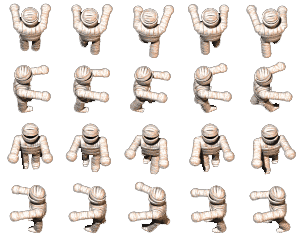
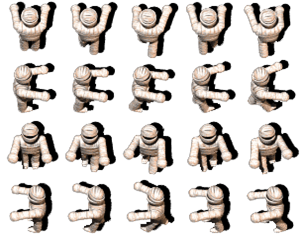
Thay đổi ảnh của redmummy, sửa logic: khi 2 mummy chạm nhau thì con thông minh hơn thắng

diff --git a/Assets/module/explorer.py b/Assets/module/explorer.py
@@ -25,8 +25,8 @@ class MummyMazePlayerManager:
         # 1. Load Resources
 
         # Giữ nguyên logic load riêng biệt để đảm bảo shadow không bị lỗi
-        self.player_frames, self.shadow_player_frames = self.load_player_frames()
-        self.finding_frames, self.shadow_finding_frames = self.load_player_finding_frames()
+        self.player_frames= self.load_player_frames()
+        self.finding_frames = self.load_player_finding_frames()
         
         # 2. Movement State
         self.movement_list: List[str] = []
@@ -228,17 +228,8 @@ class MummyMazePlayerManager:
         """Helper to update both sprite and shadow frames based on direction."""
         direction_key = str(self.facing_direction)
         self.current_frame = getattr(self.player_frames, direction_key)[frame_index]
-        self.current_shadow_frame = getattr(self.shadow_player_frames, direction_key)[frame_index]
 
-    def get_black_shadow_surface(self, frame: pygame.Surface) -> pygame.Surface:
-        """Convert an original shadow surface to a black silhouette."""
-        image = frame.copy()
-        image.set_colorkey((0, 0, 0))
-        mask = pygame.mask.from_surface(image)
-        # setcolor=(0, 0, 0) -> Absolute black
-        return mask.to_surface(setcolor=(0, 0, 0), unsetcolor=None)
-
-    def _load_and_scale_image(self, filename: str = "", is_shadow: bool = False) -> pygame.Surface:
+    def _load_and_scale_image(self, filename: str = "") -> pygame.Surface:
         """Helper just for loading and scaling, NOT applying shadow logic."""
         path = os.path.join("assets", "images", filename)
         surface = pygame.image.load(path).convert_alpha()
@@ -246,11 +237,8 @@ class MummyMazePlayerManager:
         scale_factor = self.TILE_SIZE / 60
         new_size = (int(surface.get_width() * scale_factor), 
                     int(surface.get_height() * scale_factor))
-        if is_shadow:
-            return pygame.transform.scale(surface, new_size)
-        else: 
-            surface.set_colorkey((0, 0, 0))
-            return pygame.transform.smoothscale(surface, new_size)
+        
+        return pygame.transform.smoothscale(surface, new_size)
 
     def _create_frameset(self, frames_list: List[pygame.Surface]) -> Any:
         """Helper to map a list of frames to UP/RIGHT/DOWN/LEFT logic."""
@@ -266,21 +254,15 @@ class MummyMazePlayerManager:
         """Load player sprite sheet and split into directional frames."""
         
         # 1. Load NORMAL sprite
-        player_surface = self._load_and_scale_image("explorer.png", is_shadow=False).convert_alpha()
-        player_surface.set_colorkey((0, 0, 0))
-
-        # 2. Load SHADOW sprite (Load -> Scale -> then Convert to Black)
-        shadow_surface = self._load_and_scale_image("_explorer.gif", is_shadow=True)
-        shadow_surface = self.get_black_shadow_surface(shadow_surface)
+        player_surface = self._load_and_scale_image("explorer.png")
 
         # 3. Extract Frames
         w_frame = player_surface.get_width() // 5
         h_frame = player_surface.get_height() // 4
         
         player_frames_list = extract_sprite_frames(player_surface, w_frame, h_frame)
-        shadow_frames_list = extract_sprite_frames(shadow_surface, w_frame, h_frame)
 
-        return self._create_frameset(player_frames_list), self._create_frameset(shadow_frames_list)
+        return self._create_frameset(player_frames_list)
 
     def load_player_finding_frames(self) -> Tuple[List[pygame.Surface], List[pygame.Surface]]:
         """Load player finding sprite sheet (horizontal strip)."""
@@ -294,14 +276,12 @@ class MummyMazePlayerManager:
             return frames
 
         # 1. Load NORMAL finding
-        finding_surface = self._load_and_scale_image("explorer_finding.gif", is_shadow=False)
+        finding_surface = self._load_and_scale_image("explorer_finding.png")
         # finding_surface.set_colorkey((0, 0, 0))
 
-        # 2. Load SHADOW finding
-        shadow_finding_surface = self._load_and_scale_image("_explorer_finding.gif", is_shadow=True)
-        shadow_finding_surface = self.get_black_shadow_surface(shadow_finding_surface)
 
-        return extract_strip_frames(finding_surface), extract_strip_frames(shadow_finding_surface)
+
+        return extract_strip_frames(finding_surface)
 
     def player_can_move(self, position: List[int], facing_direction: str, gate_opened: bool = False) -> bool:
         """Check if player can move in facing_direction considering wall tiles."""
@@ -362,11 +342,10 @@ class MummyMazePlayerManager:
         self.expwalk_sound.play()
 
     def draw_player(self, screen: pygame.Surface, offset_x: int, offset_y: int) -> None:
-        """Render player and shadow with offset."""
+        
         base_x = MARGIN_LEFT + self.TILE_SIZE * (self.grid_position[0] - 1) + offset_x
         base_y = MARGIN_TOP + self.TILE_SIZE * (self.grid_position[1] - 1) + offset_y
         
-        screen.blit(self.current_shadow_frame, (base_x, base_y))
         screen.blit(self.current_frame, (base_x, base_y))
 
     def update_player(self, screen: pygame.Surface, gate_opened: bool = False) -> bool:
@@ -436,9 +415,7 @@ class MummyMazePlayerManager:
             is_idle_timeout = (time.time() - self.start_standing >= self.idle_time_threshold)
 
             if self.is_standing and self.facing_direction == DOWN and is_idle_timeout:
-                self.current_frame = self.finding_frames[self.finding_frame_index]
-                self.current_shadow_frame = self.shadow_finding_frames[self.finding_frame_index]
-                
+                self.current_frame = self.finding_frames[self.finding_frame_index]                
                 self.finding_frame_index += 1
 
                 # If finding loop finishes

diff --git a/Assets/module/zombies.py b/Assets/module/zombies.py
@@ -25,8 +25,8 @@ class MummyMazeZombieManager:
         self.map_data = data["map_data"] if data and "map_data" in data else []
 
         # 1. Load Resources
-        self.zombie_frames, self.shadow_zombie_frames = self.load_zombie_frames()
-        self.effect_frames, self.shadow_effect_frames = self.load_zombie_effect_frames()
+        self.zombie_frames= self.load_zombie_frames()
+        self.effect_frames = self.load_zombie_effect_frames()
         self.mumwalk_sound = pygame.mixer.Sound(os.path.join("Assets", "sounds", "mumwalk60b.wav"))
 
         # 2. Movement State
@@ -60,16 +60,8 @@ class MummyMazeZombieManager:
         """Helper to update both sprite and shadow frames based on direction."""
         direction_key = str(self.facing_direction)
         self.current_frame = getattr(self.zombie_frames, direction_key)[frame_index]
-        self.current_shadow_frame = getattr(self.shadow_zombie_frames, direction_key)[frame_index]
 
-    def get_black_shadow_surface(self, frame: pygame.Surface) -> pygame.Surface:
-        """Convert an original shadow surface to a pure black silhouette."""
-        image = frame.copy()
-        image.set_colorkey((0, 0, 0))
-        mask = pygame.mask.from_surface(image)
-        return mask.to_surface(setcolor=(0, 0, 0), unsetcolor=None)
-
-    def _load_and_scale_image(self, filename: str = "", is_shadow: bool = False) -> pygame.Surface:
+    def _load_and_scale_image(self, filename: str = "") -> pygame.Surface:
         """Helper just for loading and scaling, NOT applying shadow logic."""
         path = os.path.join("assets", "images", filename)
         surface = pygame.image.load(path).convert_alpha()
@@ -77,30 +69,21 @@ class MummyMazeZombieManager:
         scale_factor = self.TILE_SIZE / 60
         new_size = (int(surface.get_width() * scale_factor), 
                     int(surface.get_height() * scale_factor))
-        if is_shadow:
-            return pygame.transform.scale(surface, new_size)
-        else: 
-            surface.set_colorkey((0, 0, 0))
-            return pygame.transform.smoothscale(surface, new_size)
+        
+        return pygame.transform.smoothscale(surface, new_size)
         
     def load_zombie_frames(self) -> Tuple[Any, Any]:
         """Load zombie sprite sheet and split into directional frames."""
 
         _path = "whitemummy.png" if self.zombie_type in [0,2] else "redmummy.png"
         # Load Resources
-        zombie_surface = self._load_and_scale_image(_path, is_shadow=False)
-        # zombie_surface.set_colorkey((0, 0, 0))
-        
-        # Load Shadow (process image then convert to black silhouette)
-        shadow_surface = self._load_and_scale_image("_mummy.gif", is_shadow=True)
-        shadow_surface = self.get_black_shadow_surface(shadow_surface)
+        zombie_surface = self._load_and_scale_image(_path)
 
         # Extract Frames
         w_frame = zombie_surface.get_width() // 5
         h_frame = zombie_surface.get_height() // 4
         
         z_frames_list = extract_sprite_frames(zombie_surface, w_frame, h_frame)
-        s_frames_list = extract_sprite_frames(shadow_surface, w_frame, h_frame)
 
         # Helper to assign to FrameSet
         def create_frameset(source_list):
@@ -111,7 +94,7 @@ class MummyMazeZombieManager:
             fs.LEFT = double_list(source_list[16:20] + [source_list[15]])
             return fs
 
-        return create_frameset(z_frames_list), create_frameset(s_frames_list)
+        return create_frameset(z_frames_list)
 
     def load_zombie_effect_frames(self) -> Tuple[List[pygame.Surface], List[pygame.Surface]]:
         """Load special effect/idle animation frames."""
@@ -125,17 +108,13 @@ class MummyMazeZombieManager:
 
         # Load Resources
 
-        image_path = "whitelisten.gif" if self.zombie_type in [0,2] else "reddance.gif"
-        effect_surface = self._load_and_scale_image(image_path, is_shadow=False)
-        effect_surface.set_colorkey((0, 0, 0))
-        
-        shadow_effect_surface = self._load_and_scale_image("_" + image_path, is_shadow=True)
-        shadow_effect_surface = self.get_black_shadow_surface(shadow_effect_surface)
+        image_path = "whitelisten" if self.zombie_type in [0,2] else "reddance"
+        effect_surface = self._load_and_scale_image(image_path+".png")
+
         # Extract
         frame_h = effect_surface.get_height()
         effect_frames = extract_effect_frames(effect_surface, frame_h)
-        shadow_effect_frames = extract_effect_frames(shadow_effect_surface, frame_h)
-        return effect_frames, shadow_effect_frames
+        return effect_frames
 
     def zombie_can_move(self, position: List[int], facing_direction: str, gate_opened: bool = False) -> bool:
         """Check if zombie can move in facing_direction considering wall tiles."""
@@ -199,7 +178,6 @@ class MummyMazeZombieManager:
         base_x = MARGIN_LEFT + self.TILE_SIZE * (self.grid_position[0] - 1) + offset_x
         base_y = MARGIN_TOP + self.TILE_SIZE * (self.grid_position[1] - 1) + offset_y
         
-        screen.blit(self.current_shadow_frame, (base_x, base_y))
         screen.blit(self.current_frame, (base_x, base_y))
 
     def update_zombie(self, screen: pygame.Surface, gate_opened: bool = False) -> None:
@@ -278,7 +256,6 @@ class MummyMazeZombieManager:
                 
                 # Override with effect frames
                 self.current_frame = self.effect_frames[self.effect_frame_index]
-                self.current_shadow_frame = self.shadow_effect_frames[self.effect_frame_index]
                 
                 self.effect_frame_index += 1
 

diff --git a/Assets/module/scorpion.py b/Assets/module/scorpion.py
@@ -26,7 +26,7 @@ class MummyMazeScorpionManager:
         self.__superdata = data
 
         # 1. Load Resources
-        self.scorpion_frames, self.shadow_scorpion_frames = self.load_scorpion_frames()
+        self.scorpion_frames= self.load_scorpion_frames()
         self.scorwalk_sound = pygame.mixer.Sound(os.path.join("Assets", "sounds", "scorpwalk1.wav"))
 
         # 2. Movement State
@@ -56,16 +56,8 @@ class MummyMazeScorpionManager:
         """Helper to update both sprite and shadow frames based on direction."""
         direction_key = str(self.facing_direction)
         self.current_frame = getattr(self.scorpion_frames, direction_key)[frame_index]
-        self.current_shadow_frame = getattr(self.shadow_scorpion_frames, direction_key)[frame_index]
 
-    def get_black_shadow_surface(self, frame: pygame.Surface) -> pygame.Surface:
-        """Convert an original shadow surface to a pure black silhouette."""
-        image = frame.copy()
-        image.set_colorkey((0, 0, 0))
-        mask = pygame.mask.from_surface(image)
-        return mask.to_surface(setcolor=(0, 0, 0), unsetcolor=None)
-
-    def _load_and_scale_image(self, filename: str = "", is_shadow: bool = False) -> pygame.Surface:
+    def _load_and_scale_image(self, filename: str = "") -> pygame.Surface:
         """Helper just for loading and scaling, NOT applying shadow logic."""
         path = os.path.join("assets", "images", filename)
         surface = pygame.image.load(path).convert_alpha()
@@ -73,30 +65,22 @@ class MummyMazeScorpionManager:
         scale_factor = self.TILE_SIZE / 60
         new_size = (int(surface.get_width() * scale_factor), 
                     int(surface.get_height() * scale_factor))
-        if is_shadow:
-            return pygame.transform.scale(surface, new_size)
-        else: 
-            surface.set_colorkey((0, 0, 0))
-            return pygame.transform.smoothscale(surface, new_size)
+        
+        return pygame.transform.smoothscale(surface, new_size)
         
     def load_scorpion_frames(self) -> Tuple[Any, Any]:
         """Load scorpion sprite sheet and split into directional frames."""
 
         _path = "scorpion.png"
         # Load Resources
-        scorpion_surface = self._load_and_scale_image(_path, is_shadow=False)
+        scorpion_surface = self._load_and_scale_image(_path)
         # scorpion_surface.set_colorkey((0, 0, 0))
         
-        # Load Shadow (process image then convert to black silhouette)
-        shadow_surface = self._load_and_scale_image("_scorpion.gif", is_shadow=True)
-        shadow_surface = self.get_black_shadow_surface(shadow_surface)
-
         # Extract Frames
         w_frame = scorpion_surface.get_width() // 5
         h_frame = scorpion_surface.get_height() // 4
         
         s_frames_list = extract_sprite_frames(scorpion_surface, w_frame, h_frame)
-        shadow_frames_list = extract_sprite_frames(shadow_surface, w_frame, h_frame)
 
         # Helper to assign to FrameSet
         def create_frameset(source_list):
@@ -107,7 +91,7 @@ class MummyMazeScorpionManager:
             fs.LEFT = double_list(source_list[16:20] + [source_list[15]])
             return fs
 
-        return create_frameset(s_frames_list), create_frameset(shadow_frames_list)
+        return create_frameset(s_frames_list)
 
    
     def scorpion_can_move(self, position: List[int], facing_direction: str, gate_opened: bool = False) -> bool:
@@ -172,7 +156,6 @@ class MummyMazeScorpionManager:
         base_x = MARGIN_LEFT + self.TILE_SIZE * (self.grid_position[0] - 1) + offset_x
         base_y = MARGIN_TOP + self.TILE_SIZE * (self.grid_position[1] - 1) + offset_y
         
-        screen.blit(self.current_shadow_frame, (base_x, base_y))
         screen.blit(self.current_frame, (base_x, base_y))
 
     def update_scorpion(self, screen: pygame.Surface, gate_opened: bool = False) -> None:

diff --git a/index.py b/index.py
@@ -1225,10 +1225,14 @@ def main_game(current_level= 1, victory_common_surface = victory_common_surface,
                             and MummyZombies[zombie_i].get_y()
                             == MummyZombies[zombie_j].get_y()
                         ):
-                            # Insert sound
-
-                            # Reset the position of the latter zombie
-                            MummyZombies.pop(zombie_j)
+                            if MummyZombies[zombie_i].zombie_type > MummyZombies[zombie_j].zombie_type:
+                                # if zombie_i has higher type, remove zombie_j
+                                MummyZombies.pop(zombie_j)
+                            else:
+                                # else remove zombie_i
+                                MummyZombies.pop(zombie_i)
+                                zombie_i -= 1
+                                break  # Exit inner loop to avoid index issues
                         else:
                             zombie_j += 1
                     zombie_i += 1
@@ -1259,10 +1263,14 @@ def main_game(current_level= 1, victory_common_surface = victory_common_surface,
                             and MummyScorpions[scorpion_i].get_y()
                             == MummyScorpions[scorpion_j].get_y()
                         ):
-                            # Insert sound
-
-                            # Reset the position of the latter zombie
-                            MummyScorpions.pop(scorpion_j)
+                            if MummyScorpions[scorpion_i].scorpion_type > MummyScorpions[scorpion_j].scorpion_type:
+                                # if scorpion_i has higher type, remove scorpion_j
+                                MummyScorpions.pop(scorpion_j)
+                            else:
+                                # else remove scorpion_i
+                                MummyScorpions.pop(scorpion_i)
+                                scorpion_i -= 1
+                                break  # Exit inner loop to avoid index issues
                         else:
                             scorpion_j += 1
                     scorpion_i += 1

diff --git a/Assets/module/map_collection.py b/Assets/module/map_collection.py
@@ -73,7 +73,7 @@ maps_collection = [
         ],
         "player_start": [1, 1],
         "stair_position": (4, 7),
-        "zombie_starts": [[6, 5, 2], [1,6,2], [6,6,0]],
+        "zombie_starts": [[6, 5, 2], [1,6,2], [6,6,3]],
         "scorpion_starts": [[1, 5, 0]],
         "trap_pos": [],
         "key_pos": [2,2],

diff --git a/Assets/module/map.py b/Assets/module/map.py
@@ -364,7 +364,7 @@ class MummyMazeMapManager:
         )
 
         area_stair_surface = pygame.image.load(
-            os.path.join("assets", "images", "stairs6.png")
+            os.path.join("assets", "images", "stairs.png")
         ).convert_alpha()
 
         area_to_cut = pygame.Rect(2, 0, 54, 66)
